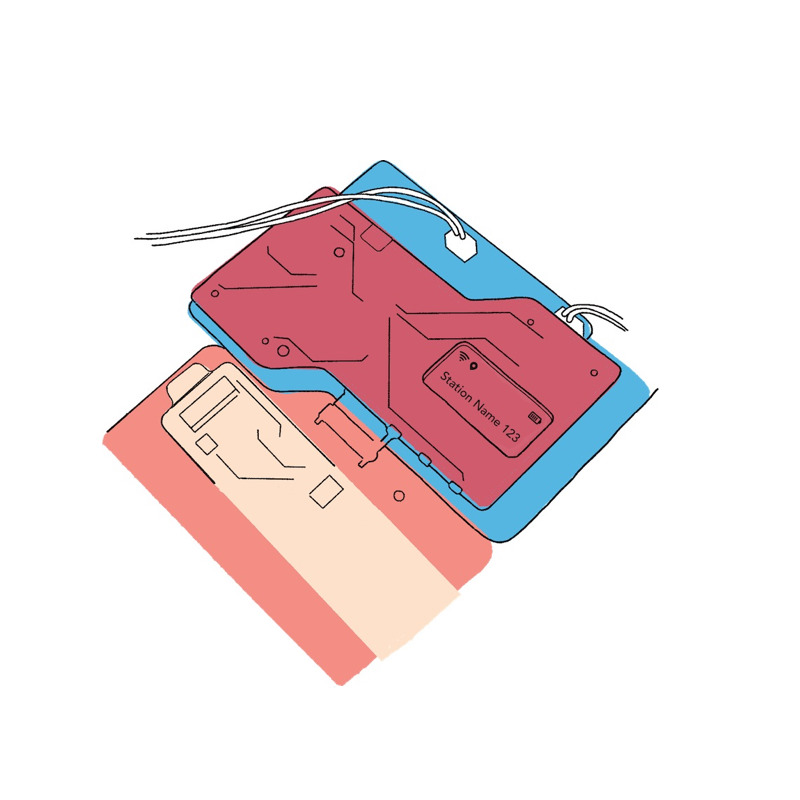
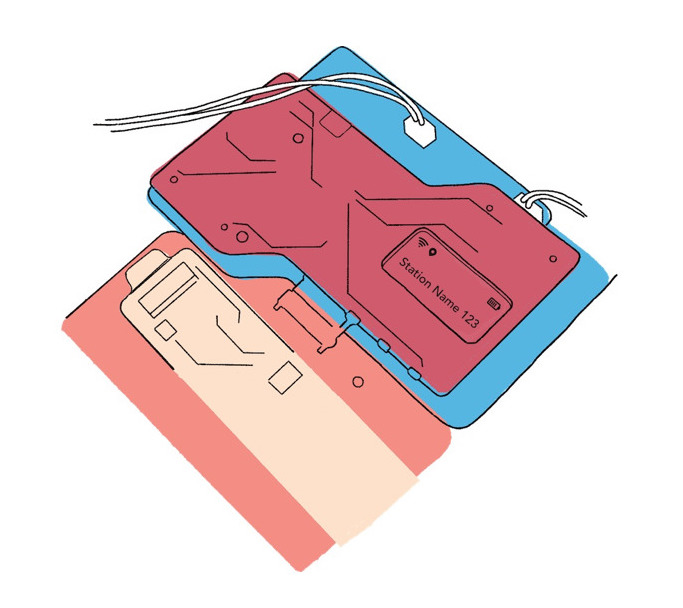
Added progress image to top of setup (FK-1452), had to put in ScrollView

Changed region(s): [[0.0922, 0.0625, 0.8917, 0.9375], [0.5227, 0.6875, 0.5534, 0.7188]]

diff --git a/FieldKit/app/components/ConnectStationView.vue b/FieldKit/app/components/ConnectStationView.vue
@@ -28,35 +28,10 @@
             </GridLayout>
             <!-- end header section -->
 
-            <!-- connection steps -->
-            <StackLayout row="1" v-if="step.hasHeading">
-                <Label
-                    v-for="instruction in step.instructions"
-                    :key="instruction"
-                    class="instruction"
-                    :text="instruction"
-                    lineHeight="4"
-                    textWrap="true"
-                ></Label>
-                <GridLayout rows="*" columns="*">
-                    <Image
-                        verticalAlignment="middle"
-                        v-if="displayFrame"
-                        :src="displayFrame"
-                    ></Image>
-                </GridLayout>
-            </StackLayout>
-            <!-- end connection steps section -->
-
-            <!-- other screens -->
-            <StackLayout row="0" v-if="!step.hasHeading">
-                <GridLayout rows="*" columns="*">
-                    <StackLayout row="0" verticalAlignment="middle">
-                        <Label
-                            class="title m-b-10 text-center"
-                            :text="subtitle"
-                            textWrap="true"
-                        ></Label>
+            <ScrollView :row="step.hasHeading ? 1 : 0 ">
+                <GridLayout rows="auto" columns="*" verticalAlignment="middle">
+                    <!-- connection steps -->
+                    <StackLayout row="0" v-if="step.hasHeading">
                         <Label
                             v-for="instruction in step.instructions"
                             :key="instruction"
@@ -65,110 +40,166 @@
                             lineHeight="4"
                             textWrap="true"
                         ></Label>
-
-                        <!-- form for various input -->
-                        <StackLayout v-if="hasForm">
-                            <ConnectStationForm
-                                :station="station"
-                                :step="step"
-                                ref="connectStationForm"
-                            />
-                        </StackLayout>
-                        <!-- end form -->
-
-                        <!-- radio buttons and info -->
-                        <GridLayout
-                            rows="auto,auto"
-                            columns="30,*"
-                            v-for="option in step.options"
-                            class="option-container"
-                        >
-                            <check-box
-                                row="0"
-                                col="0"
-                                :checked="option.selected"
-                                :isEnabled="!option.selected"
-                                fillColor="#2C3E50"
-                                onCheckColor="#2C3E50"
-                                onTintColor="#2C3E50"
-                                fontSize="18"
-                                boxType="circle"
-                                @checkedChange="$event.value !== option.selected && toggleChoice(option)"
-                            />
-                            <Label
-                                row="0"
-                                col="1"
-                                class="m-t-5 m-l-5"
-                                :text="option.text"
-                            ></Label>
-                            <Label
-                                row="1"
-                                colSpan="2"
-                                class="radio-info"
-                                lineHeight="4"
-                                :text="option.info"
-                                textWrap="true"
-                            ></Label>
+                        <GridLayout rows="*" columns="*">
+                            <Image
+                                width="75%"
+                                verticalAlignment="middle"
+                                v-if="displayFrame"
+                                :src="displayFrame"
+                            ></Image>
                         </GridLayout>
-                        <!-- end radio buttons -->
-
-                        <!-- module list -->
-                        <template v-if="showingModules">
-                            <StackLayout class="m-t-20"></StackLayout>
-                            <GridLayout
-                                rows="auto"
-                                columns="*"
-                                class="m-t-10 m-x-20"
-                                v-for="(m, moduleIndex) in modules"
-                                :key="m.id"
-                            >
-                                <StackLayout
-                                    class="bordered-container p-10"
-                                    @tap="goToCalibration(m)"
-                                >
-                                    <GridLayout rows="auto, auto" columns="15*,70*,15*">
-                                        <!-- module icon -->
-                                        <Image
-                                            rowSpan="2"
-                                            col="0"
-                                            width="40"
-                                            horizontalAlignment="left"
-                                            :src="getModuleImage(m)"
-                                        ></Image>
-                                        <!-- module name -->
-                                        <Label row="0" col="1" :text="getModuleName(m)" class="module-name" textWrap="true" />
-                                        <!-- calibration status -->
-                                        <Label
-                                            row="1"
-                                            col="1"
-                                            :text="m.calibratedLabel"
-                                            :class="'size-14 ' + m.calibratedClass"
-                                        />
-                                        <!-- calibration check mark -->
-                                        <Image
-                                            rowSpan="2"
-                                            col="2"
-                                            width="20"
-                                            horizontalAlignment="right"
-                                            :src="m.calibratedImage"
-                                        ></Image>
-                                    </GridLayout>
-                                </StackLayout>
-                            </GridLayout>
-                        </template>
-                        <!-- end module list -->
                     </StackLayout>
+                    <!-- end connection steps section -->
+
+                    <!-- other screens -->
+                    <StackLayout row="0" v-if="!step.hasHeading" verticalAlignment="middle">
+                        <GridLayout rows="*" columns="*">
+                            <StackLayout row="0" verticalAlignment="middle">
+                                <Label
+                                    class="title m-t-20 m-b-10 text-center"
+                                    :text="subtitle"
+                                    textWrap="true"
+                                ></Label>
+                                <GridLayout
+                                    v-if="step.progressImage"
+                                    rows="auto, auto"
+                                    columns="*,*"
+                                    width="80%"
+                                    class="m-t-10 m-b-20"
+                                >
+                                    <Image
+                                        row="0"
+                                        colSpan="2"
+                                        class="m-b-10 m-l-15 m-r-15"
+                                        :src="step.progressImage"
+                                    />
+                                    <Label
+                                        row="1"
+                                        col="0"
+                                        horizontalAlignment="left"
+                                        text="Connect"
+                                    />
+                                    <Label
+                                        row="1"
+                                        col="1"
+                                        horizontalAlignment="right"
+                                        text="Set Up"
+                                    />
+                                </GridLayout>
+                                <Label
+                                    v-for="instruction in step.instructions"
+                                    :key="instruction"
+                                    class="instruction"
+                                    :text="instruction"
+                                    lineHeight="4"
+                                    textWrap="true"
+                                ></Label>
+
+                                <!-- form for various input -->
+                                <StackLayout v-if="hasForm">
+                                    <ConnectStationForm
+                                        :station="station"
+                                        :step="step"
+                                        ref="connectStationForm"
+                                    />
+                                </StackLayout>
+                                <!-- end form -->
+
+                                <!-- radio buttons and info -->
+                                <GridLayout
+                                    rows="auto,auto"
+                                    columns="30,*"
+                                    v-for="option in step.options"
+                                    class="option-container"
+                                >
+                                    <check-box
+                                        row="0"
+                                        col="0"
+                                        :checked="option.selected"
+                                        :isEnabled="!option.selected"
+                                        fillColor="#2C3E50"
+                                        onCheckColor="#2C3E50"
+                                        onTintColor="#2C3E50"
+                                        fontSize="18"
+                                        boxType="circle"
+                                        @checkedChange="$event.value !== option.selected && toggleChoice(option)"
+                                    />
+                                    <Label
+                                        row="0"
+                                        col="1"
+                                        class="m-t-5 m-l-5"
+                                        :text="option.text"
+                                    ></Label>
+                                    <Label
+                                        row="1"
+                                        colSpan="2"
+                                        class="radio-info"
+                                        lineHeight="4"
+                                        :text="option.info"
+                                        textWrap="true"
+                                    ></Label>
+                                </GridLayout>
+                                <!-- end radio buttons -->
+
+                                <!-- module list -->
+                                <template v-if="showingModules">
+                                    <StackLayout class="m-t-10"></StackLayout>
+                                    <GridLayout
+                                        rows="auto"
+                                        columns="*"
+                                        class="m-t-10 m-x-20"
+                                        v-for="(m, moduleIndex) in modules"
+                                        :key="m.id"
+                                    >
+                                        <StackLayout
+                                            class="bordered-container p-10"
+                                            @tap="goToCalibration(m)"
+                                        >
+                                            <GridLayout rows="auto, auto" columns="15*,70*,15*">
+                                                <!-- module icon -->
+                                                <Image
+                                                    rowSpan="2"
+                                                    col="0"
+                                                    width="40"
+                                                    horizontalAlignment="left"
+                                                    :src="getModuleImage(m)"
+                                                ></Image>
+                                                <!-- module name -->
+                                                <Label row="0" col="1" :text="getModuleName(m)" class="module-name" textWrap="true" />
+                                                <!-- calibration status -->
+                                                <Label
+                                                    row="1"
+                                                    col="1"
+                                                    :text="m.calibratedLabel"
+                                                    :class="'size-14 ' + m.calibratedClass"
+                                                />
+                                                <!-- calibration check mark -->
+                                                <Image
+                                                    rowSpan="2"
+                                                    col="2"
+                                                    width="20"
+                                                    horizontalAlignment="right"
+                                                    :src="m.calibratedImage"
+                                                ></Image>
+                                            </GridLayout>
+                                        </StackLayout>
+                                    </GridLayout>
+                                </template>
+                                <!-- end module list -->
+                            </StackLayout>
+                        </GridLayout>
+                    </StackLayout>
+                    <!-- end other screens -->
                 </GridLayout>
-            </StackLayout>
-            <!-- end other screens -->
+            </ScrollView>
 
             <!-- sticky next button -->
             <StackLayout :row="step.hasHeading ? 2 : 1" verticalAlignment="bottom">
                 <Button
                     class="btn btn-primary btn-padded m-y-10"
                     :text="step.button"
+                    :isEnabled="!step.buttonDisabled"
                     @tap="goNext"
-                    v-if="step.button"
                 ></Button>
                 <Label
                     :text="step.altOption"
@@ -784,8 +815,10 @@ const steps = {
             hasHeading: false,
             title: "",
             instructions: ["Let's set up your station before you deploy!", "To complete setup, calibrate each sensor module for accurate data readings.", "Tap an uncalibrated module below to get started."],
-            button: "",
+            button: "Done",
+            buttonDisabled: true,
             images: [],
+            progressImage: "~/images/Icon_incomplete.png",
             altOption: "Set up later"
         },
     "endCalibration":
@@ -797,7 +830,8 @@ const steps = {
             title: "",
             instructions: ["Your FieldKit station setup is complete."],
             button: "Done",
-            images: []
+            images: [],
+            progressImage: "~/images/Icon_complete.png"
         }
 };
 
@@ -826,14 +860,7 @@ const steps = {
 .page {
     color: $fk-primary-black;
 }
-.logo {
-    margin-top: 8%;
-    width: 50%;
-}
-.illo {
-    margin-top: 8%;
-    width: 75%;
-}
+
 .skip {
     width: 115;
     padding-top: 10;
@@ -848,7 +875,7 @@ const steps = {
     color: $fk-primary-black;
     text-align: center;
     font-size: 16;
-    margin-top: 10;
+    margin-top: 5;
     margin-bottom: 10;
     margin-right: 20;
     margin-left: 20;
